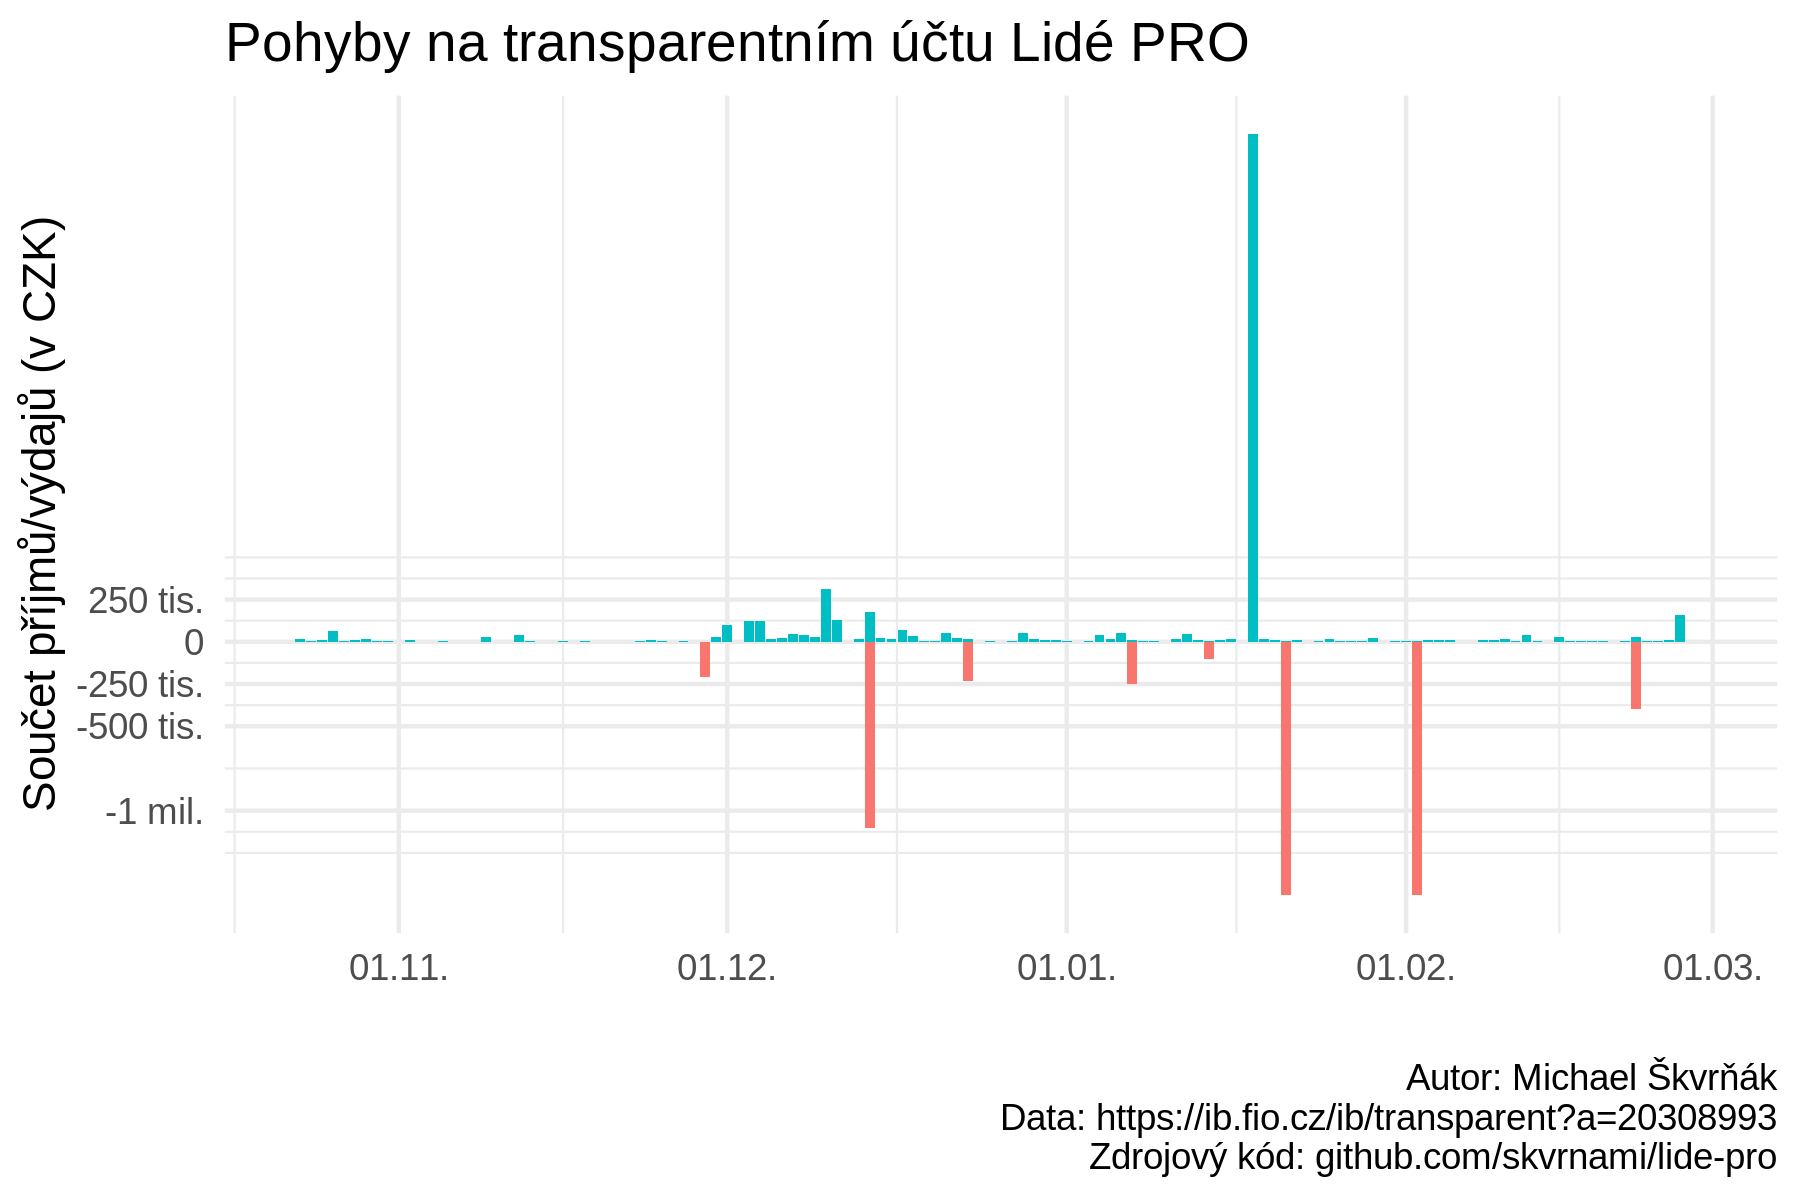
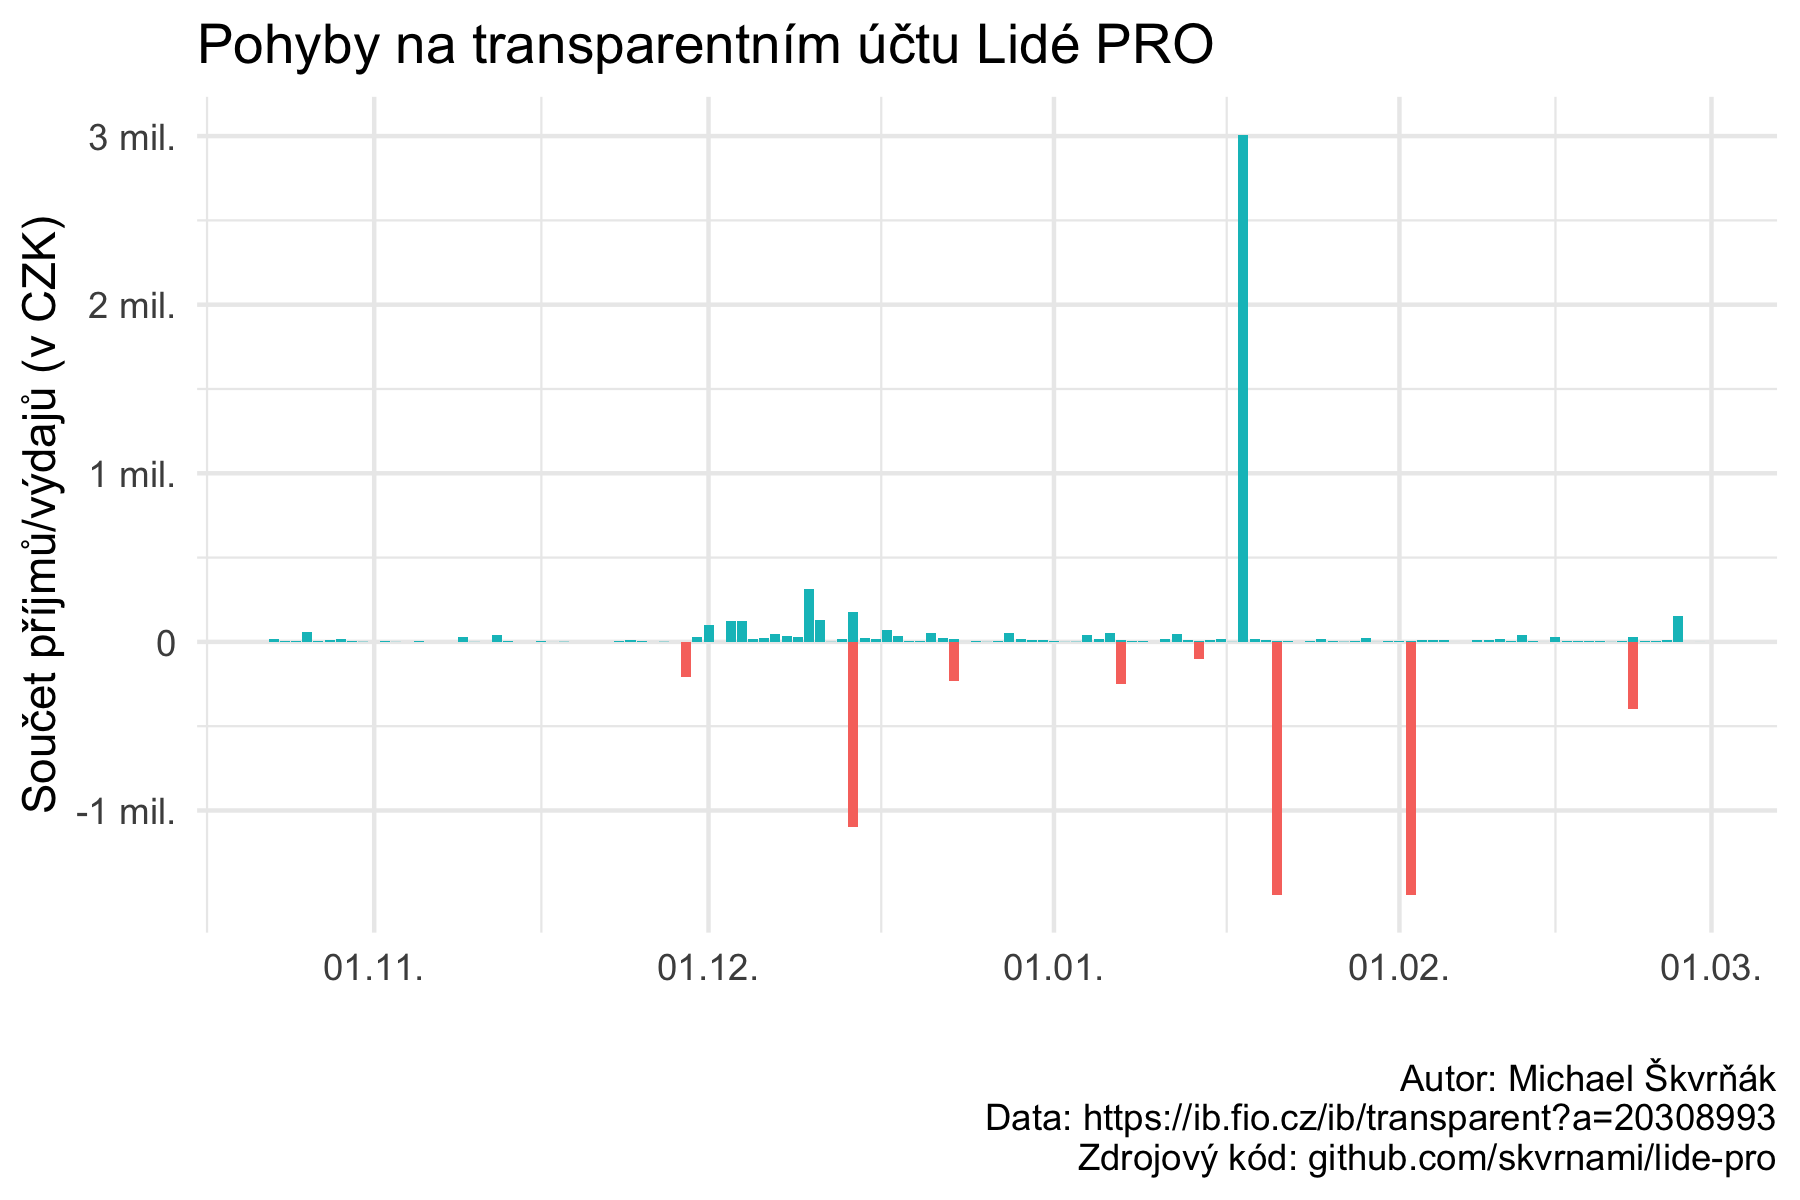
Fix breaks on chart showing donations

diff --git a/README.md b/README.md
@@ -14,6 +14,8 @@ Skript pro scrapování počtu podpisů pro vznik hnutí [Lidé PRO](https://lid
 
 ![](output/money.png)
 
+![](output/money_count.png)
+
 ## File manifest
 
 - `src/scrap-signatures-count.R` - skript pro stáhnutí počtu podpisů uvedených na stránce [Lidé PRO](https://lidepro.cz/podpisy)  
